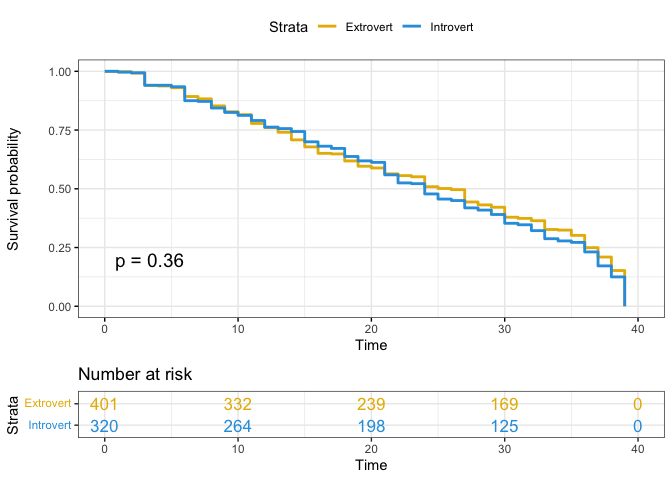
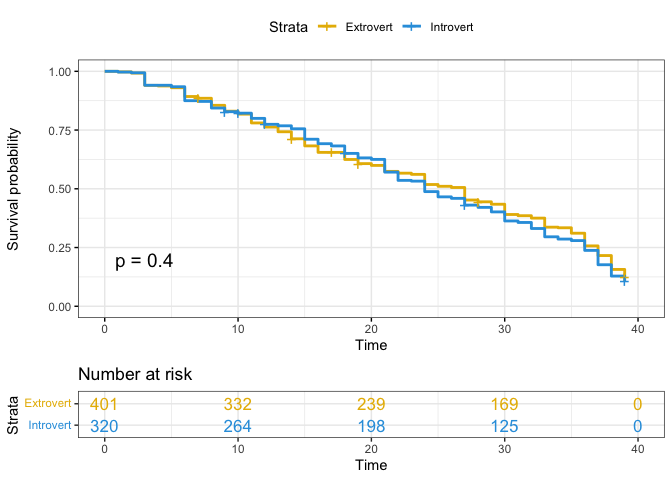
status variable change, add Kaplan-Meier-gender

Changed region(s): [[0.3125, 0.2188, 0.9375, 0.625], [0.2188, 0.5312, 0.2812, 0.5625], [0.2812, 0.1875, 0.3125, 0.2188]]

diff --git a/survival_analysis.md b/survival_analysis.md
@@ -104,24 +104,31 @@ status <- c()
 time <- c()
 for (i in 1:nrow(survivor_final))
   {
-  if(survivor_final[i,14] == "Quit"){
+  if(survivor_final[i,16] == "Quit"){
     status[i] <- 0
     time[i] <- survivor_final$days_survived[i]
   }
-  if(survivor_final[i,14] == "Sole Survivor"){
+  else if(survivor_final[i,16] == "Sole Survivor"){
     status[i] <- 0
     time[i] <- survivor_final$days_survived[i]
   } 
+  else if(survivor_final[i,16] == "Runner-up"){
+    status[i] <- 0
+    time[i] <- survivor_final$days_survived[i]
+  } else if(survivor_final[i,16] == "Co-runner-up"){
+    status[i] <- 0
+    time[i] <- survivor_final$days_survived[i]
+  }
   else {
     status[i] <- 1
     time[i] <- survivor_final$days_survived[i]
   }
 }
-survivor_final[,17] <- status
-survivor_final[,18] <- time
+survivor_final[,18] <- status
+survivor_final[,19] <- time
 
-colnames(survivor_final)[17] <- "status"
-colnames(survivor_final)[18] <- "time"
+colnames(survivor_final)[18] <- "status"
+colnames(survivor_final)[19] <- "time"
 ```
 
 ## Survival Unadjected Model
@@ -148,27 +155,27 @@ summary(surv_model_cox1)
     ## coxph(formula = Surv(time, status) ~ poc + age_during_show + 
     ##     personality_type_binary, data = survivor_final)
     ## 
-    ##   n= 721, number of events= 721 
+    ##   n= 721, number of events= 626 
     ##    (8 observations deleted due to missingness)
     ## 
     ##                                        coef  exp(coef)   se(coef)      z
-    ## pocWhite                         -0.0850812  0.9184377  0.0835671 -1.018
-    ## age_during_show                  -0.0001841  0.9998159  0.0037273 -0.049
-    ## personality_type_binaryIntrovert  0.0593713  1.0611692  0.0752142  0.789
+    ## pocWhite                         -1.186e-01  8.881e-01  8.923e-02 -1.330
+    ## age_during_show                  -8.572e-06  1.000e+00  3.976e-03 -0.002
+    ## personality_type_binaryIntrovert  6.114e-02  1.063e+00  8.065e-02  0.758
     ##                                  Pr(>|z|)
-    ## pocWhite                            0.309
-    ## age_during_show                     0.961
-    ## personality_type_binaryIntrovert    0.430
+    ## pocWhite                            0.184
+    ## age_during_show                     0.998
+    ## personality_type_binaryIntrovert    0.448
     ## 
     ##                                  exp(coef) exp(-coef) lower .95 upper .95
-    ## pocWhite                            0.9184     1.0888    0.7797     1.082
-    ## age_during_show                     0.9998     1.0002    0.9925     1.007
-    ## personality_type_binaryIntrovert    1.0612     0.9424    0.9157     1.230
+    ## pocWhite                            0.8881     1.1260    0.7456     1.058
+    ## age_during_show                     1.0000     1.0000    0.9922     1.008
+    ## personality_type_binaryIntrovert    1.0631     0.9407    0.9076     1.245
     ## 
     ## Concordance= 0.517  (se = 0.014 )
-    ## Likelihood ratio test= 1.77  on 3 df,   p=0.6
-    ## Wald test            = 1.78  on 3 df,   p=0.6
-    ## Score (logrank) test = 1.79  on 3 df,   p=0.6
+    ## Likelihood ratio test= 2.47  on 3 df,   p=0.5
+    ## Wald test            = 2.5  on 3 df,   p=0.5
+    ## Score (logrank) test = 2.51  on 3 df,   p=0.5
 
 ## Cox-proposional hazard model 2
 
@@ -183,62 +190,62 @@ summary(surv_model_cox2)
     ## coxph(formula = Surv(time, status) ~ ethnicity + age_during_show + 
     ##     personality_type_binary, data = survivor_final)
     ## 
-    ##   n= 687, number of events= 687 
+    ##   n= 687, number of events= 596 
     ##    (42 observations deleted due to missingness)
     ## 
     ##                                        coef  exp(coef)   se(coef)      z
-    ## ethnicityAsian, Black             3.339e+00  2.818e+01  1.025e+00  3.257
-    ## ethnicityBlack                    1.969e-02  1.020e+00  1.743e-01  0.113
-    ## ethnicityBrazilian               -2.521e-01  7.772e-01  7.232e-01 -0.349
-    ## ethnicityChilean American         1.753e+00  5.771e+00  1.016e+00  1.726
-    ## ethnicityColombian American      -1.193e-01  8.875e-01  1.012e+00 -0.118
-    ## ethnicityCuban American           3.754e-01  1.456e+00  7.218e-01  0.520
-    ## ethnicityMexican American        -1.327e-01  8.757e-01  4.041e-01 -0.328
-    ## ethnicityPanamanian American      3.400e+00  2.997e+01  1.027e+00  3.312
-    ## ethnicityPeruvian American        1.881e+00  6.560e+00  1.014e+00  1.854
-    ## ethnicityPuerto Rican American   -1.949e-01  8.229e-01  7.211e-01 -0.270
-    ## ethnicityVenezuelan American      1.119e+00  3.062e+00  1.012e+00  1.106
-    ## ethnicityWhite                   -5.675e-02  9.448e-01  1.470e-01 -0.386
-    ## age_during_show                  -5.681e-05  9.999e-01  3.800e-03 -0.015
-    ## personality_type_binaryIntrovert  6.203e-02  1.064e+00  7.861e-02  0.789
-    ##                                  Pr(>|z|)    
-    ## ethnicityAsian, Black            0.001125 ** 
-    ## ethnicityBlack                   0.910018    
-    ## ethnicityBrazilian               0.727461    
-    ## ethnicityChilean American        0.084348 .  
-    ## ethnicityColombian American      0.906116    
-    ## ethnicityCuban American          0.602975    
-    ## ethnicityMexican American        0.742668    
-    ## ethnicityPanamanian American     0.000927 ***
-    ## ethnicityPeruvian American       0.063704 .  
-    ## ethnicityPuerto Rican American   0.786935    
-    ## ethnicityVenezuelan American     0.268768    
-    ## ethnicityWhite                   0.699538    
-    ## age_during_show                  0.988074    
-    ## personality_type_binaryIntrovert 0.430060    
+    ## ethnicityAsian, Black             3.2903748 26.8529253  1.0259043  3.207
+    ## ethnicityBlack                   -0.0013271  0.9986737  0.1847155 -0.007
+    ## ethnicityBrazilian               -0.2720196  0.7618393  0.7249443 -0.375
+    ## ethnicityChilean American         1.7268978  5.6231827  1.0168787  1.698
+    ## ethnicityColombian American      -0.1342845  0.8743413  1.0129903 -0.133
+    ## ethnicityCuban American          -0.3704447  0.6904272  1.0113371 -0.366
+    ## ethnicityMexican American        -0.1970779  0.8211267  0.4350155 -0.453
+    ## ethnicityPanamanian American      3.3588111 28.7549837  1.0278275  3.268
+    ## ethnicityPeruvian American        1.8464144  6.3370565  1.0154234  1.818
+    ## ethnicityPuerto Rican American   -0.2202243  0.8023388  0.7223740 -0.305
+    ## ethnicityVenezuelan American      1.1023898  3.0113541  1.0129948  1.088
+    ## ethnicityWhite                   -0.1095644  0.8962244  0.1552187 -0.706
+    ## age_during_show                   0.0002771  1.0002771  0.0040463  0.068
+    ## personality_type_binaryIntrovert  0.0656655  1.0678694  0.0845104  0.777
+    ##                                  Pr(>|z|)   
+    ## ethnicityAsian, Black             0.00134 **
+    ## ethnicityBlack                    0.99427   
+    ## ethnicityBrazilian                0.70749   
+    ## ethnicityChilean American         0.08946 . 
+    ## ethnicityColombian American       0.89454   
+    ## ethnicityCuban American           0.71415   
+    ## ethnicityMexican American         0.65052   
+    ## ethnicityPanamanian American      0.00108 **
+    ## ethnicityPeruvian American        0.06901 . 
+    ## ethnicityPuerto Rican American    0.76047   
+    ## ethnicityVenezuelan American      0.27649   
+    ## ethnicityWhite                    0.48027   
+    ## age_during_show                   0.94540   
+    ## personality_type_binaryIntrovert  0.43715   
     ## ---
     ## Signif. codes:  0 '***' 0.001 '**' 0.01 '*' 0.05 '.' 0.1 ' ' 1
     ## 
     ##                                  exp(coef) exp(-coef) lower .95 upper .95
-    ## ethnicityAsian, Black              28.1822    0.03548    3.7799   210.120
-    ## ethnicityBlack                      1.0199    0.98050    0.7248     1.435
-    ## ethnicityBrazilian                  0.7772    1.28667    0.1883     3.207
-    ## ethnicityChilean American           5.7711    0.17328    0.7885    42.239
-    ## ethnicityColombian American         0.8875    1.12674    0.1222     6.447
-    ## ethnicityCuban American             1.4556    0.68701    0.3537     5.990
-    ## ethnicityMexican American           0.8757    1.14189    0.3966     1.934
-    ## ethnicityPanamanian American       29.9687    0.03337    4.0068   224.151
-    ## ethnicityPeruvian American          6.5603    0.15243    0.8983    47.910
-    ## ethnicityPuerto Rican American      0.8229    1.21519    0.2003     3.382
-    ## ethnicityVenezuelan American        3.0623    0.32655    0.4213    22.256
-    ## ethnicityWhite                      0.9448    1.05839    0.7083     1.260
-    ## age_during_show                     0.9999    1.00006    0.9925     1.007
-    ## personality_type_binaryIntrovert    1.0640    0.93986    0.9121     1.241
+    ## ethnicityAsian, Black              26.8529    0.03724   3.59534   200.559
+    ## ethnicityBlack                      0.9987    1.00133   0.69533     1.434
+    ## ethnicityBrazilian                  0.7618    1.31261   0.18399     3.155
+    ## ethnicityChilean American           5.6232    0.17784   0.76633    41.262
+    ## ethnicityColombian American         0.8743    1.14372   0.12007     6.367
+    ## ethnicityCuban American             0.6904    1.44838   0.09512     5.012
+    ## ethnicityMexican American           0.8211    1.21784   0.35005     1.926
+    ## ethnicityPanamanian American       28.7550    0.03478   3.83552   215.577
+    ## ethnicityPeruvian American          6.3371    0.15780   0.86608    46.368
+    ## ethnicityPuerto Rican American      0.8023    1.24636   0.19475     3.306
+    ## ethnicityVenezuelan American        3.0114    0.33208   0.41352    21.929
+    ## ethnicityWhite                      0.8962    1.11579   0.66114     1.215
+    ## age_during_show                     1.0003    0.99972   0.99238     1.008
+    ## personality_type_binaryIntrovert    1.0679    0.93644   0.90486     1.260
     ## 
-    ## Concordance= 0.519  (se = 0.014 )
-    ## Likelihood ratio test= 16.39  on 14 df,   p=0.3
-    ## Wald test            = 31.35  on 14 df,   p=0.005
-    ## Score (logrank) test = 64.51  on 14 df,   p=2e-08
+    ## Concordance= 0.532  (se = 0.013 )
+    ## Likelihood ratio test= 16.88  on 14 df,   p=0.3
+    ## Wald test            = 31.88  on 14 df,   p=0.004
+    ## Score (logrank) test = 65.12  on 14 df,   p=1e-08
 
 ## Kaplan-Meier plotter-personality
 
@@ -291,5 +298,27 @@ ggsurvplot(
 ```
 
 ![](survival_analysis_files/figure-gfm/unnamed-chunk-11-1.png)<!-- -->
+
+## Kaplan-Meier plotter-gender
+
+``` r
+surv_model_sex <- survfit(Surv(time, status)~ survivor_final$gender)
+
+ggsurvplot(
+  surv_model_sex,
+  data = survivor_final,
+  size = 1,                 # change line size
+  conf.int = FALSE,          # Add confidence interval
+  pval = TRUE,              # Add p-value
+  risk.table = TRUE,        # Add risk table
+  risk.table.col = "strata",# Risk table color by groups
+  legend.labs =
+    c("female", "male"),    # Change legend labels
+  risk.table.height = 0.25, # Useful to change when you have multiple groups
+  ggtheme = theme_bw()      # Change ggplot2 theme
+)
+```
+
+![](survival_analysis_files/figure-gfm/unnamed-chunk-12-1.png)<!-- -->
 
 ## log-rank
